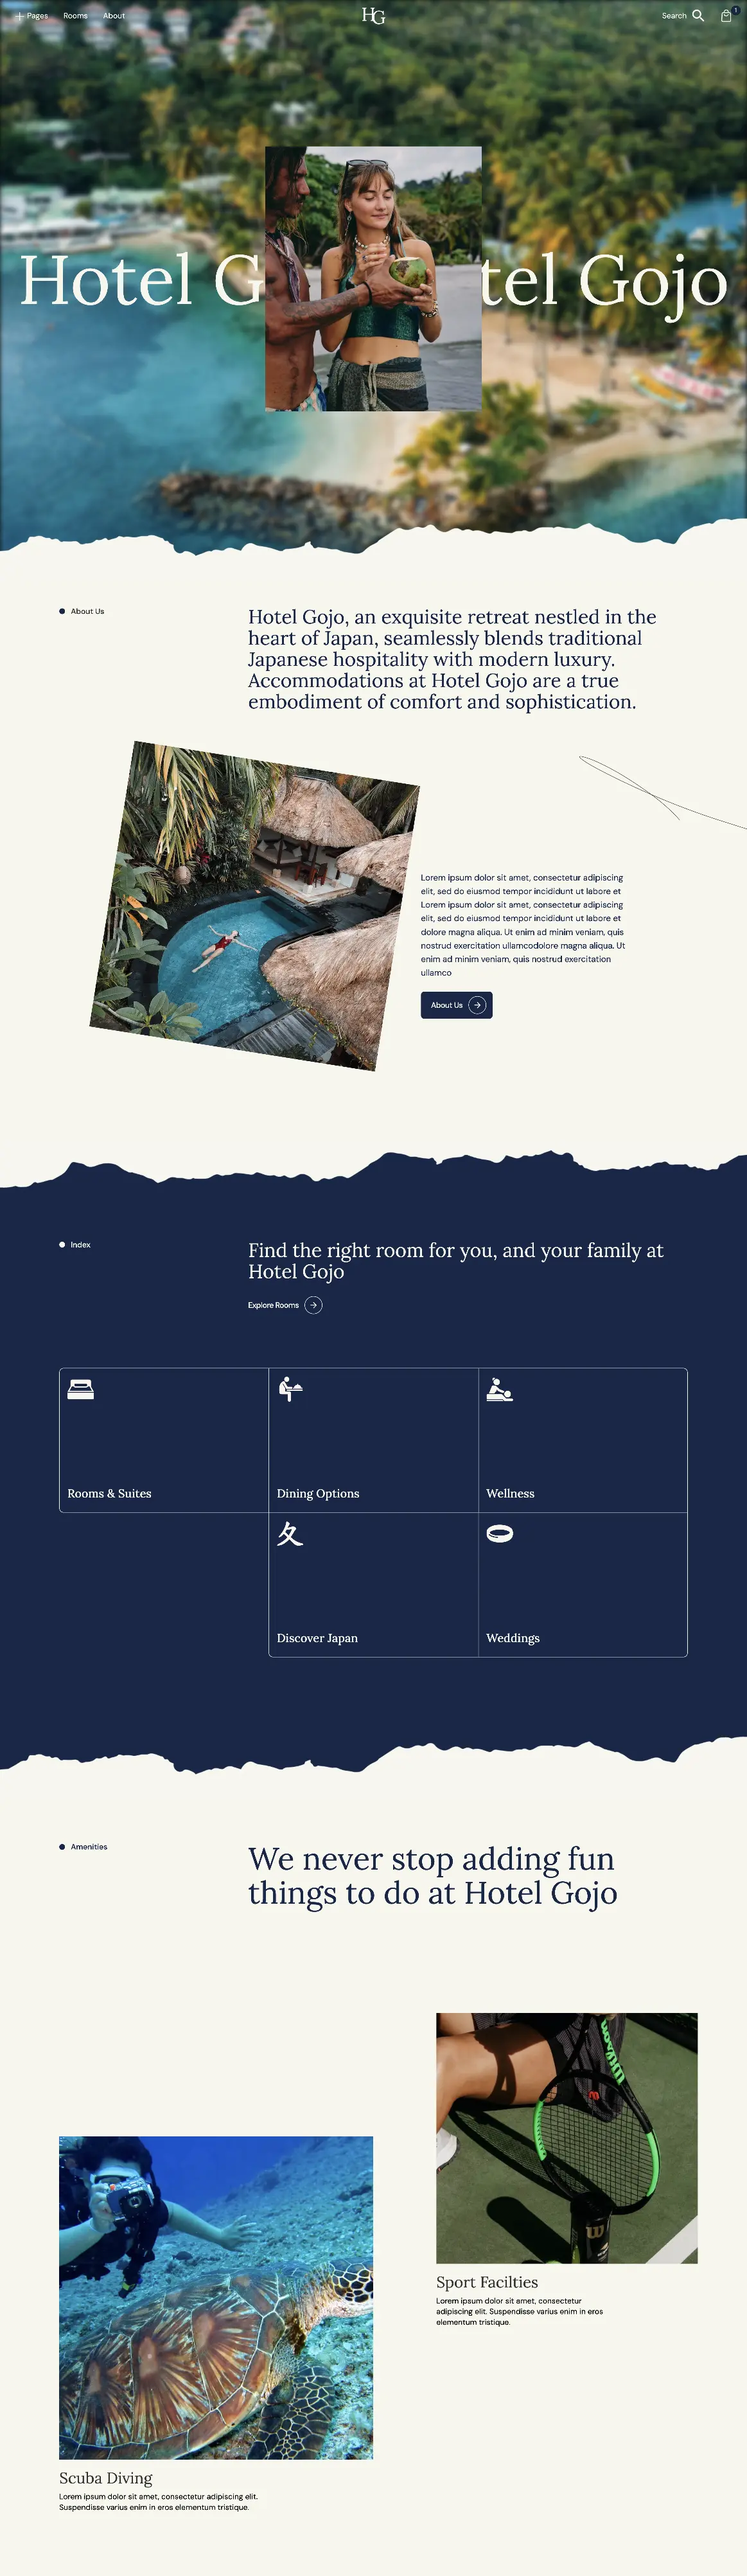
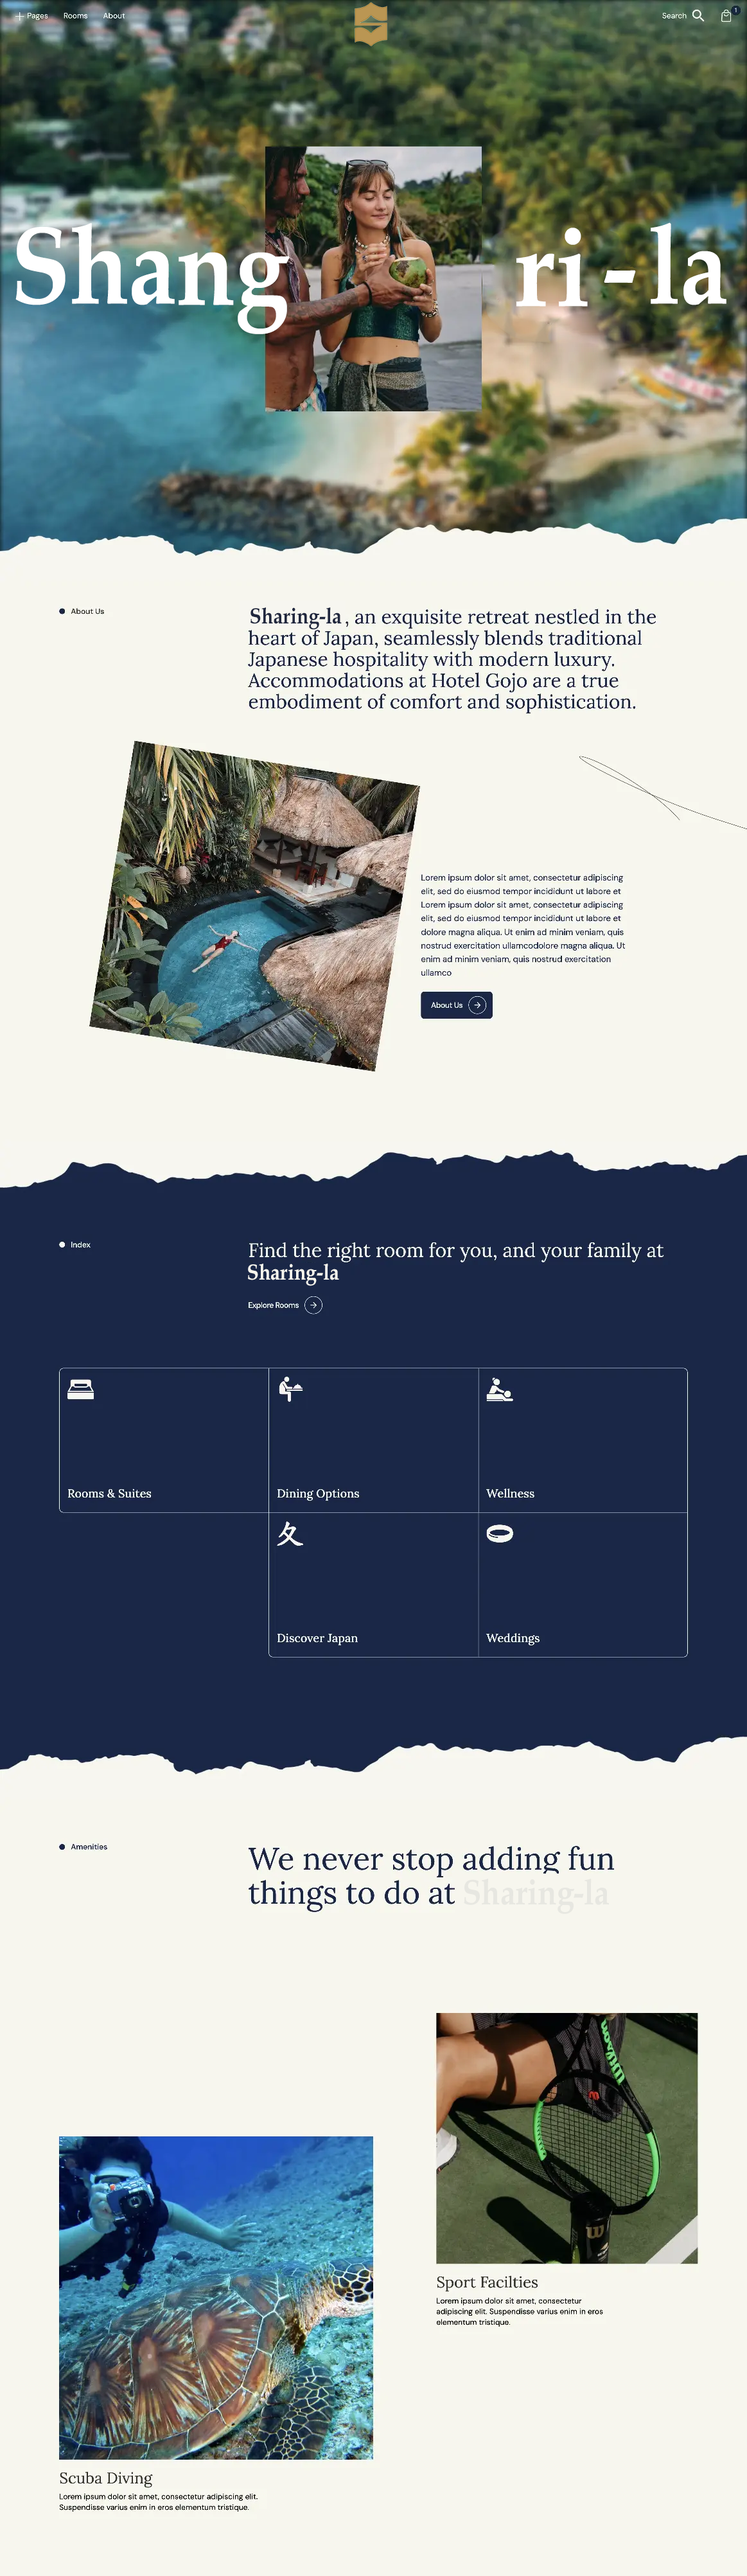
Replace Assets for Shangri-la

diff --git a/hoe tell.html b/hoe tell.html
@@ -419,12 +419,12 @@
 						</div>
 						<div class="mockup-link-block-wrapper">
 							<a href="/homepages/home-02" class="mockup-link-block-image hero no-auto w-inline-block">
-								<img src="Assets/image1-ezgif.com-webp-to-png-converter.png" loading="lazy" sizes="(max-width: 479px) 336px, (max-width: 767px) 240px, (max-width: 991px) 288px, (max-width: 1439px) 400px, (max-width: 1919px) 448px, 528px" srcset="https://assets-global.website-files.com/65981339adfa63d09e817859/65b144af0ba4c88864c641f7_gojo-home-01-p-500.webp 500w, https://assets-global.website-files.com/65981339adfa63d09e817859/65b144af0ba4c88864c641f7_gojo-home-01-p-800.webp 800w, https://assets-global.website-files.com/65981339adfa63d09e817859/65b144af0ba4c88864c641f7_gojo-home-01-p-1080.webp 1080w, Assets/image1-ezgif.com-webp-to-png-converter.png 1163w" alt="" class="mockup-screenshot-image" />
+								<img src="Assets/image1-ezgif.com-webp-to-png-converter.png" loading="lazy" sizes="(max-width: 479px) 336px, (max-width: 767px) 240px, (max-width: 991px) 288px, (max-width: 1439px) 400px, (max-width: 1919px) 448px, 528px" srcset="Assets/image1-ezgif.com-webp-to-png-converter.png 500w, Assets/image1-ezgif.com-webp-to-png-converter.png 800w, Assets/image1-ezgif.com-webp-to-png-converter.png 1080w, Assets/image1-ezgif.com-webp-to-png-converter.png 1163w" alt="" class="mockup-screenshot-image" />
 							</a>
 						</div>
 						<div class="mockup-link-block-wrapper">
 							<a href="/homepages/home-01" class="mockup-link-block-image hero no-auto w-inline-block">
-								<img src="https://assets-global.website-files.com/65981339adfa63d09e817859/65b13b51ceb8824852a4a0c7_home-02-gojo.webp" loading="lazy" sizes="(max-width: 479px) 336px, (max-width: 767px) 240px, (max-width: 991px) 288px, (max-width: 1439px) 400px, (max-width: 1919px) 448px, 528px" srcset="https://assets-global.website-files.com/65981339adfa63d09e817859/65b13b51ceb8824852a4a0c7_home-02-gojo-p-500.webp 500w, https://assets-global.website-files.com/65981339adfa63d09e817859/65b13b51ceb8824852a4a0c7_home-02-gojo-p-800.webp 800w, https://assets-global.website-files.com/65981339adfa63d09e817859/65b13b51ceb8824852a4a0c7_home-02-gojo-p-1080.webp 1080w, https://assets-global.website-files.com/65981339adfa63d09e817859/65b13b51ceb8824852a4a0c7_home-02-gojo.webp 1450w" alt="" class="mockup-screenshot-image" />
+								<img src="Assets/image 2 sharing-la.png" loading="lazy" sizes="(max-width: 479px) 336px, (max-width: 767px) 240px, (max-width: 991px) 288px, (max-width: 1439px) 400px, (max-width: 1919px) 448px, 528px" srcset="Assets/image 2 sharing-la.png 500w, Assets/image 2 sharing-la.png 800w, Assets/image 2 sharing-la.png 1080w, Assets/image 2 sharing-la.png 1450w" alt="" class="mockup-screenshot-image" />
 							</a>
 						</div>
 						<div class="mockup-link-block-wrapper">
@@ -461,12 +461,12 @@
 						</div>
 						<div class="mockup-link-block-wrapper">
 							<a href="/about-us/about-us-01" class="mockup-link-block-image hero no-auto w-inline-block">
-								<img src="https://assets-global.website-files.com/65981339adfa63d09e817859/65b144aec189f95a8756b047_gojo-about-01.webp" loading="lazy" sizes="(max-width: 479px) 336px, (max-width: 767px) 240px, (max-width: 991px) 288px, (max-width: 1439px) 400px, (max-width: 1919px) 448px, 528px" srcset="https://assets-global.website-files.com/65981339adfa63d09e817859/65b144aec189f95a8756b047_gojo-about-01-p-500.webp 500w, https://assets-global.website-files.com/65981339adfa63d09e817859/65b144aec189f95a8756b047_gojo-about-01-p-800.webp 800w, https://assets-global.website-files.com/65981339adfa63d09e817859/65b144aec189f95a8756b047_gojo-about-01-p-1080.webp 1080w, https://assets-global.website-files.com/65981339adfa63d09e817859/65b144aec189f95a8756b047_gojo-about-01.webp 1163w" alt="" class="mockup-screenshot-image" />
+								<img src="Assets/image 4 shangri-la.png" loading="lazy" sizes="(max-width: 479px) 336px, (max-width: 767px) 240px, (max-width: 991px) 288px, (max-width: 1439px) 400px, (max-width: 1919px) 448px, 528px" srcset="Assets/image 4 shangri-la.png 500w, Assets/image 4 shangri-la.png 800w, Assets/image 4 shangri-la.png 1080w, Assets/image 4 shangri-la.png 1163w" alt="" class="mockup-screenshot-image" />
 							</a>
 						</div>
 						<div class="mockup-link-block-wrapper">
 							<a href="/homepages/home-03" class="mockup-link-block-image hero no-auto w-inline-block">
-								<img src="https://assets-global.website-files.com/65981339adfa63d09e817859/65b144aed2d82163956677e8_gojo-home-03.webp" loading="lazy" sizes="(max-width: 479px) 336px, (max-width: 767px) 240px, (max-width: 991px) 288px, (max-width: 1439px) 400px, (max-width: 1919px) 448px, 528px" srcset="https://assets-global.website-files.com/65981339adfa63d09e817859/65b144aed2d82163956677e8_gojo-home-03-p-500.webp 500w, https://assets-global.website-files.com/65981339adfa63d09e817859/65b144aed2d82163956677e8_gojo-home-03-p-800.webp 800w, https://assets-global.website-files.com/65981339adfa63d09e817859/65b144aed2d82163956677e8_gojo-home-03-p-1080.webp 1080w, https://assets-global.website-files.com/65981339adfa63d09e817859/65b144aed2d82163956677e8_gojo-home-03.webp 1163w" alt="" class="mockup-screenshot-image" />
+								<img src="Assets/image 3 shangri-la.png" loading="lazy" sizes="(max-width: 479px) 336px, (max-width: 767px) 240px, (max-width: 991px) 288px, (max-width: 1439px) 400px, (max-width: 1919px) 448px, 528px" srcset="Assets/image 3 shangri-la.png 500w, Assets/image 3 shangri-la.png 800w, Assets/image 3 shangri-la.png 1080w, Assets/image 3 shangri-la.png 1163w" alt="" class="mockup-screenshot-image" />
 							</a>
 						</div>
 						<div class="mockup-link-block-wrapper">
@@ -550,19 +550,19 @@
 						<div class="w-layout-grid main-index-grid">
 							<a href="/homepages/home-01" id="w-node-_1b803ac2-83e3-6fdc-3f70-feb9b1f632ee-4ff1fe94" target="_blank" class="mockup-link-block w-inline-block">
 								<div class="mockup-link-block-image">
-									<img src="https://assets-global.website-files.com/65981339adfa63d09e817859/65b144aeca49faeca59ceed6_gojo-home-02.webp" loading="lazy" sizes="(max-width: 479px) 85vw, (max-width: 767px) 91vw, (max-width: 991px) 90vw, (max-width: 1279px) 89vw, (max-width: 1439px) 1104px, (max-width: 1919px) 1264px, 1784px" srcset="https://assets-global.website-files.com/65981339adfa63d09e817859/65b144aeca49faeca59ceed6_gojo-home-02-p-500.webp 500w, https://assets-global.website-files.com/65981339adfa63d09e817859/65b144aeca49faeca59ceed6_gojo-home-02-p-800.webp 800w, https://assets-global.website-files.com/65981339adfa63d09e817859/65b144aeca49faeca59ceed6_gojo-home-02-p-1080.webp 1080w, https://assets-global.website-files.com/65981339adfa63d09e817859/65b144aeca49faeca59ceed6_gojo-home-02.webp 1188w" alt="" class="mockup-screenshot-image" />
+									<img src="Assets/image 2 sharing-la.png" loading="lazy" sizes="(max-width: 479px) 85vw, (max-width: 767px) 91vw, (max-width: 991px) 90vw, (max-width: 1279px) 89vw, (max-width: 1439px) 1104px, (max-width: 1919px) 1264px, 1784px" srcset="Assets/image 2 sharing-la.png 500w, Assets/image 2 sharing-la.png 800w, Assets/image 2 sharing-la.png 1080w, Assets/image 2 sharing-la.png 1188w" alt="" class="mockup-screenshot-image" />
 								</div>
 								<div class="mockup-caption">Homepage 01</div>
 							</a>
 							<a href="/homepages/home-02" id="w-node-_1b803ac2-83e3-6fdc-3f70-feb9b1f632f3-4ff1fe94" target="_blank" class="mockup-link-block w-inline-block">
 								<div class="mockup-link-block-image">
-									<img src="Assets/image1-ezgif.com-webp-to-png-converter.png" loading="lazy" sizes="(max-width: 479px) 82vw, (max-width: 767px) 89vw, (max-width: 991px) 88vw, (max-width: 1279px) 87vw, (max-width: 1439px) 1089px, (max-width: 1919px) 1249px, 1769px" srcset="https://assets-global.website-files.com/65981339adfa63d09e817859/65b144af0ba4c88864c641f7_gojo-home-01-p-500.webp 500w, https://assets-global.website-files.com/65981339adfa63d09e817859/65b144af0ba4c88864c641f7_gojo-home-01-p-800.webp 800w, https://assets-global.website-files.com/65981339adfa63d09e817859/65b144af0ba4c88864c641f7_gojo-home-01-p-1080.webp 1080w, Assets/image1-ezgif.com-webp-to-png-converter.png 1163w" alt="" class="mockup-screenshot-image" />
+									<img src="Assets/image1-ezgif.com-webp-to-png-converter.png" loading="lazy" sizes="(max-width: 479px) 82vw, (max-width: 767px) 89vw, (max-width: 991px) 88vw, (max-width: 1279px) 87vw, (max-width: 1439px) 1089px, (max-width: 1919px) 1249px, 1769px" srcset="Assets/image1-ezgif.com-webp-to-png-converter.png 500w, Assets/image1-ezgif.com-webp-to-png-converter.png 800w, Assets/image1-ezgif.com-webp-to-png-converter.png 1080w, Assets/image1-ezgif.com-webp-to-png-converter.png 1163w" alt="" class="mockup-screenshot-image" />
 								</div>
 								<div class="mockup-caption">Homepage 02</div>
 							</a>
 							<a href="/homepages/home-03" id="w-node-_1b803ac2-83e3-6fdc-3f70-feb9b1f63316-4ff1fe94" target="_blank" class="mockup-link-block w-inline-block">
 								<div class="mockup-link-block-image">
-									<img src="https://assets-global.website-files.com/65981339adfa63d09e817859/65b144aed2d82163956677e8_gojo-home-03.webp" loading="lazy" sizes="(max-width: 479px) 82vw, (max-width: 767px) 89vw, (max-width: 991px) 88vw, (max-width: 1279px) 87vw, (max-width: 1439px) 1089px, (max-width: 1919px) 1249px, 1769px" srcset="https://assets-global.website-files.com/65981339adfa63d09e817859/65b144aed2d82163956677e8_gojo-home-03-p-500.webp 500w, https://assets-global.website-files.com/65981339adfa63d09e817859/65b144aed2d82163956677e8_gojo-home-03-p-800.webp 800w, https://assets-global.website-files.com/65981339adfa63d09e817859/65b144aed2d82163956677e8_gojo-home-03-p-1080.webp 1080w, https://assets-global.website-files.com/65981339adfa63d09e817859/65b144aed2d82163956677e8_gojo-home-03.webp 1163w" alt="" class="mockup-screenshot-image" />
+									<img src="Assets/image 3 shangri-la.png" loading="lazy" sizes="(max-width: 479px) 82vw, (max-width: 767px) 89vw, (max-width: 991px) 88vw, (max-width: 1279px) 87vw, (max-width: 1439px) 1089px, (max-width: 1919px) 1249px, 1769px" srcset="Assets/image 3 shangri-la.png 500w, Assets/image 3 shangri-la.png 800w, Assets/image 3 shangri-la.png 1080w, Assets/image 3 shangri-la.png 1163w" alt="" class="mockup-screenshot-image" />
 								</div>
 								<div class="mockup-caption">Homepage 03</div>
 							</a>
@@ -580,7 +580,7 @@
 						<div class="w-layout-grid main-index-grid">
 							<a href="/about-us/about-us-01" id="w-node-b460b860-6559-f446-dafb-d2d8a4dc0334-4ff1fe94" target="_blank" class="mockup-link-block w-inline-block">
 								<div class="mockup-link-block-image">
-									<img src="https://assets-global.website-files.com/65981339adfa63d09e817859/65b144aec189f95a8756b047_gojo-about-01.webp" loading="lazy" sizes="(max-width: 479px) 82vw, (max-width: 767px) 89vw, (max-width: 991px) 88vw, (max-width: 1279px) 87vw, (max-width: 1439px) 1089px, (max-width: 1919px) 1249px, 1769px" srcset="https://assets-global.website-files.com/65981339adfa63d09e817859/65b144aec189f95a8756b047_gojo-about-01-p-500.webp 500w, https://assets-global.website-files.com/65981339adfa63d09e817859/65b144aec189f95a8756b047_gojo-about-01-p-800.webp 800w, https://assets-global.website-files.com/65981339adfa63d09e817859/65b144aec189f95a8756b047_gojo-about-01-p-1080.webp 1080w, https://assets-global.website-files.com/65981339adfa63d09e817859/65b144aec189f95a8756b047_gojo-about-01.webp 1163w" alt="" class="mockup-screenshot-image" />
+									<img src="Assets/image 4 shangri-la.png" loading="lazy" sizes="(max-width: 479px) 82vw, (max-width: 767px) 89vw, (max-width: 991px) 88vw, (max-width: 1279px) 87vw, (max-width: 1439px) 1089px, (max-width: 1919px) 1249px, 1769px" srcset="Assets/image 4 shangri-la.png 500w, Assets/image 4 shangri-la.png 800w, Assets/image 4 shangri-la.png 1080w, Assets/image 4 shangri-la.png 1163w" alt="" class="mockup-screenshot-image" />
 								</div>
 								<div class="mockup-caption">About Us 01</div>
 							</a>
